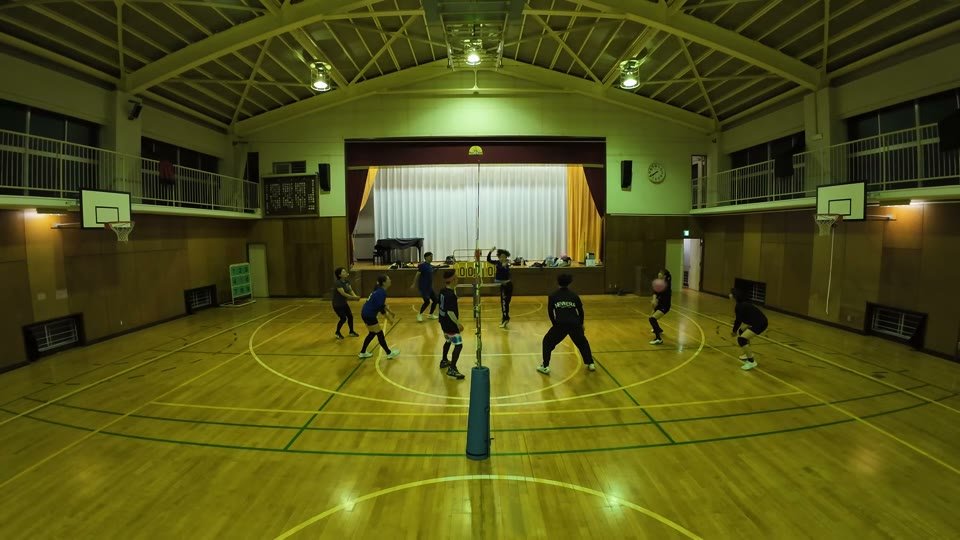
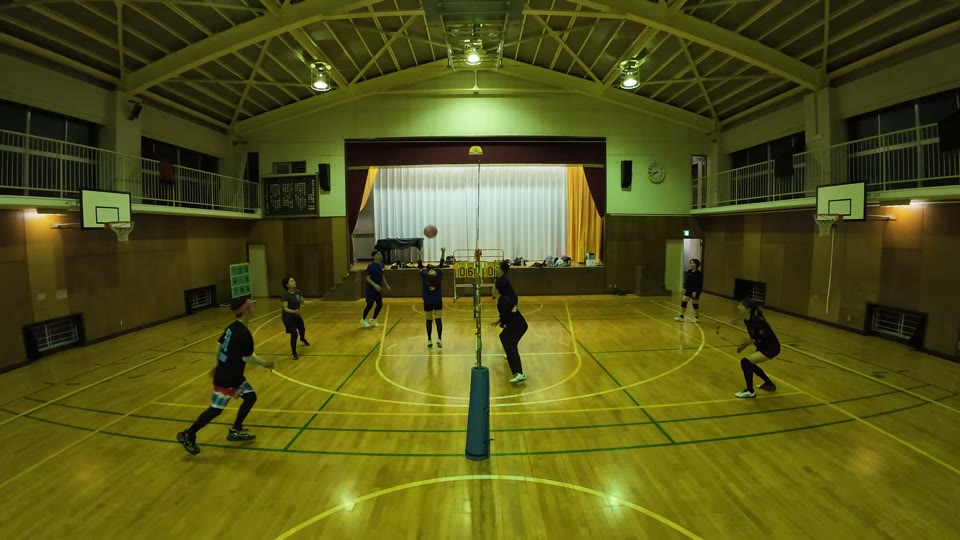
11/7講評を公開(けんのレビュー完了。賞6・珍プレー5)とリンクを戻す

Changed region(s): [[0.1875, 0.4148, 0.6562, 0.8593], [0.6562, 0.4741, 0.8125, 0.7407]]

diff --git a/kouhyou/20261107.html b/kouhyou/20261107.html
@@ -366,71 +366,142 @@
 
   <div class="card summary-card">
     <a class="award" href="#award1">
-      <div class="award-faces"><img src="faces/yukiyo.jpg" alt="ゆきよ"></div>
+      <div class="award-faces"><img src="faces/kazue.jpg" alt="かずえ"><img src="faces/yukiyo.jpg" alt="ゆきよ"></div>
       <div class="award-body">
         <div class="award-label">バックトス賞</div>
-        <div class="award-who">ゆきよ</div>
-        <div class="award-why">トスで攻撃をつなぎ、バックトスも決まった</div>
+        <div class="award-who">かずえ・ゆきよ</div>
+        <div class="award-why">かずえが3本、ゆきよが2本、バックトスを上げた。1:28 のゆきよのトスは、るきの速いアタックにつながった</div>
       </div>
       <span class="award-go"><svg viewBox="0 0 24 24" fill="none" stroke="currentColor" stroke-width="2.5"><path d="M9 5l7 7-7 7"></path></svg></span>
     </a>
     <a class="award" href="#award2">
-      <div class="award-faces"><img src="faces/komorin.jpg" alt="こもりん"></div>
+      <div class="award-faces"><img src="faces/yui.jpg" alt="ゆい"></div>
       <div class="award-body">
-        <div class="award-label">アタック&ブロック賞</div>
-        <div class="award-who">こもりん</div>
-        <div class="award-why">アタックを決めて、ブロックでも止めた</div>
+        <div class="award-label">安定トス賞</div>
+        <div class="award-who">ゆい</div>
+        <div class="award-why">トスを上げ続けた。るきの速いアタックにつなぎ、バックトスやレシーブでも活躍した</div>
       </div>
       <span class="award-go"><svg viewBox="0 0 24 24" fill="none" stroke="currentColor" stroke-width="2.5"><path d="M9 5l7 7-7 7"></path></svg></span>
     </a>
     <a class="award" href="#award3">
-      <div class="award-faces"><img src="faces/ken.jpg" alt="けん"></div>
+      <div class="award-faces"><img src="faces/yuriko.jpg" alt="ゆりこ"></div>
+      <div class="award-body">
+        <div class="award-label">つなぎの達人賞</div>
+        <div class="award-who">ゆりこ</div>
+        <div class="award-why">トス、レシーブ、バックトスと、いろいろな形でつないだ</div>
+      </div>
+      <span class="award-go"><svg viewBox="0 0 24 24" fill="none" stroke="currentColor" stroke-width="2.5"><path d="M9 5l7 7-7 7"></path></svg></span>
+    </a>
+    <a class="award" href="#award4">
+      <div class="award-faces"><img src="faces/ruki.jpg" alt="るき"></div>
+      <div class="award-body">
+        <div class="award-label">稲妻アタック賞</div>
+        <div class="award-who">るき</div>
+        <div class="award-why">速いアタックが5本。ゆい・ゆきよ・こもりんのつなぎから打った</div>
+      </div>
+      <span class="award-go"><svg viewBox="0 0 24 24" fill="none" stroke="currentColor" stroke-width="2.5"><path d="M9 5l7 7-7 7"></path></svg></span>
+    </a>
+    <a class="award" href="#award5">
+      <div class="award-faces"><img src="faces/komorin.jpg" alt="こもりん"></div>
+      <div class="award-body">
+        <div class="award-label">アタック&ブロック賞</div>
+        <div class="award-who">こもりん</div>
+        <div class="award-why">アタックとブロックの両方で活躍。レシーブから、るきのアタックにもつないだ</div>
+      </div>
+      <span class="award-go"><svg viewBox="0 0 24 24" fill="none" stroke="currentColor" stroke-width="2.5"><path d="M9 5l7 7-7 7"></path></svg></span>
+    </a>
+    <a class="award" href="#award6">
+      <div class="award-faces"><img src="faces/yassan.jpg" alt="やっさん"><img src="faces/ken.jpg" alt="けん"></div>
       <div class="award-body">
         <div class="award-label">ナイスレシーブ賞</div>
-        <div class="award-who">けん</div>
-        <div class="award-why">大きく上げたレシーブ。足でも返した</div>
+        <div class="award-who">やっさん・けん</div>
+        <div class="award-why">やっさんは最初のレシーブをゆきよのトスにつなぎ、けんは3人続けて拾い、足でも返した</div>
       </div>
       <span class="award-go"><svg viewBox="0 0 24 24" fill="none" stroke="currentColor" stroke-width="2.5"><path d="M9 5l7 7-7 7"></path></svg></span>
     </a>
   </div>
 
-  <h2 id="award1">バックトス賞 — ゆきよ</h2>
+  <h2 id="award1">バックトス賞 — かずえ・ゆきよ</h2>
   <div class="card">
-    <a class="shot" href="https://youtu.be/Cd3rK57Khro?t=46" target="_blank" rel="noopener">
-      <img src="shots1107/yukiyo-1.jpg" alt="ゆきよ のトス" loading="lazy">
+    <a class="shot" href="https://youtu.be/Cd3rK57Khro?t=237" target="_blank" rel="noopener">
+      <img src="shots1107/kazue-1.jpg" alt="かずえ のバックトス" loading="lazy">
       <span class="play"><span><svg viewBox="0 0 24 24"><path d="M8 5v14l11-7z"></path></svg></span></span>
-      <span class="cap"><span class="at">0:49</span></span>
+      <span class="cap"><span class="at">4:00</span></span>
     </a>
-    <p>ゆきよ のトス　<a href="https://youtu.be/Cd3rK57Khro?t=46" target="_blank" rel="noopener">0:49</a>、<a href="https://youtu.be/Cd3rK57Khro?t=5295" target="_blank" rel="noopener">1:28:18</a></p>
+    <p>かずえ のバックトス　<a href="https://youtu.be/Cd3rK57Khro?t=237" target="_blank" rel="noopener">4:00</a>、<a href="https://youtu.be/Cd3rK57Khro?t=2246" target="_blank" rel="noopener">37:29</a>、<a href="https://youtu.be/Cd3rK57Khro?t=3570" target="_blank" rel="noopener">59:33</a></p>
     <p>ゆきよ のバックトス　<a href="https://youtu.be/Cd3rK57Khro?t=2769" target="_blank" rel="noopener">46:12</a>、<a href="https://youtu.be/Cd3rK57Khro?t=3677" target="_blank" rel="noopener">1:01:20</a></p>
+    <p>ゆきよ のトスから、るき が速いアタック　<a href="https://youtu.be/Cd3rK57Khro?t=5295" target="_blank" rel="noopener">1:28:18</a></p>
+    <p>かずえ のレシーブ。ゆりこ・けん と3人続けて拾った　<a href="https://youtu.be/Cd3rK57Khro?t=305" target="_blank" rel="noopener">5:08</a></p>
+    <p>ゆきよ のトス。やっさん のレシーブからつないだ　<a href="https://youtu.be/Cd3rK57Khro?t=46" target="_blank" rel="noopener">0:49</a></p>
+    <p>かずえ のレシーブ。みんなでつないだラリーの最後　<a href="https://youtu.be/Cd3rK57Khro?t=5406" target="_blank" rel="noopener">1:30:09</a></p>
   </div>
 
-  <h2 id="award2">アタック&ブロック賞 — こもりん</h2>
+  <h2 id="award2">安定トス賞 — ゆい</h2>
+  <div class="card">
+    <a class="shot" href="https://youtu.be/Cd3rK57Khro?t=219" target="_blank" rel="noopener">
+      <img src="shots1107/yui-2.jpg" alt="ゆい のトスから、るき が速いアタック" loading="lazy">
+      <span class="play"><span><svg viewBox="0 0 24 24"><path d="M8 5v14l11-7z"></path></svg></span></span>
+      <span class="cap"><span class="at">3:42</span></span>
+    </a>
+    <p>ゆい のトスから、るき が速いアタック　<a href="https://youtu.be/Cd3rK57Khro?t=219" target="_blank" rel="noopener">3:42</a>、<a href="https://youtu.be/Cd3rK57Khro?t=3587" target="_blank" rel="noopener">59:50</a></p>
+    <p>ゆい のトス　<a href="https://youtu.be/Cd3rK57Khro?t=419" target="_blank" rel="noopener">7:02</a>、<a href="https://youtu.be/Cd3rK57Khro?t=2038" target="_blank" rel="noopener">34:01</a>、<a href="https://youtu.be/Cd3rK57Khro?t=3190" target="_blank" rel="noopener">53:13</a></p>
+    <p>ゆい のレシーブ。ゆりこ に続けて拾いにいった　<a href="https://youtu.be/Cd3rK57Khro?t=1569" target="_blank" rel="noopener">26:12</a></p>
+    <p>ゆい のバックトス　<a href="https://youtu.be/Cd3rK57Khro?t=2292" target="_blank" rel="noopener">38:15</a></p>
+    <p>ゆい のレシーブ　<a href="https://youtu.be/Cd3rK57Khro?t=3216" target="_blank" rel="noopener">53:39</a>、<a href="https://youtu.be/Cd3rK57Khro?t=3830" target="_blank" rel="noopener">1:03:53</a></p>
+  </div>
+
+  <h2 id="award3">つなぎの達人賞 — ゆりこ</h2>
+  <div class="card">
+    <a class="shot" href="https://youtu.be/Cd3rK57Khro?t=310" target="_blank" rel="noopener">
+      <img src="shots1107/yuriko-3.jpg" alt="ゆりこ のレシーブ。かずえ・けん と3人続けて拾った" loading="lazy">
+      <span class="play"><span><svg viewBox="0 0 24 24"><path d="M8 5v14l11-7z"></path></svg></span></span>
+      <span class="cap"><span class="at">5:13</span></span>
+    </a>
+    <p>ゆりこ のトス　<a href="https://youtu.be/Cd3rK57Khro?t=109" target="_blank" rel="noopener">1:52</a>、<a href="https://youtu.be/Cd3rK57Khro?t=4554" target="_blank" rel="noopener">1:15:57</a></p>
+    <p>ゆりこ のレシーブ。かずえ・けん と3人続けて拾った　<a href="https://youtu.be/Cd3rK57Khro?t=310" target="_blank" rel="noopener">5:13</a></p>
+    <p>ゆりこ のレシーブ。ゆい と続けて拾いにいった。間に合わなかったけれど好プレー　<a href="https://youtu.be/Cd3rK57Khro?t=1565" target="_blank" rel="noopener">26:08</a></p>
+    <p>ゆりこ のバックトス　<a href="https://youtu.be/Cd3rK57Khro?t=2890" target="_blank" rel="noopener">48:13</a></p>
+  </div>
+
+  <h2 id="award4">稲妻アタック賞 — るき</h2>
+  <div class="card">
+    <a class="shot" href="https://youtu.be/Cd3rK57Khro?t=220" target="_blank" rel="noopener">
+      <img src="shots1107/ruki-4.jpg" alt="るき のアタック。ゆい のトスから" loading="lazy">
+      <span class="play"><span><svg viewBox="0 0 24 24"><path d="M8 5v14l11-7z"></path></svg></span></span>
+      <span class="cap"><span class="at">3:43</span></span>
+    </a>
+    <p>るき のアタック。ゆい のトスから　<a href="https://youtu.be/Cd3rK57Khro?t=220" target="_blank" rel="noopener">3:43</a>、<a href="https://youtu.be/Cd3rK57Khro?t=3588" target="_blank" rel="noopener">59:51</a></p>
+    <p>るき のアタック　<a href="https://youtu.be/Cd3rK57Khro?t=4684" target="_blank" rel="noopener">1:18:07</a>、<a href="https://youtu.be/Cd3rK57Khro?t=5205" target="_blank" rel="noopener">1:26:48</a></p>
+    <p>るき のアタック。こもりん のレシーブからつないだ　<a href="https://youtu.be/Cd3rK57Khro?t=4914" target="_blank" rel="noopener">1:21:57</a></p>
+    <p>るき のアタック。ゆきよ のトスから　<a href="https://youtu.be/Cd3rK57Khro?t=5296" target="_blank" rel="noopener">1:28:19</a></p>
+  </div>
+
+  <h2 id="award5">アタック&ブロック賞 — こもりん</h2>
   <div class="card">
     <a class="shot" href="https://youtu.be/Cd3rK57Khro?t=378" target="_blank" rel="noopener">
-      <img src="shots1107/komorin-2.jpg" alt="こもりん のアタック" loading="lazy">
+      <img src="shots1107/komorin-5.jpg" alt="こもりん のアタック" loading="lazy">
       <span class="play"><span><svg viewBox="0 0 24 24"><path d="M8 5v14l11-7z"></path></svg></span></span>
       <span class="cap"><span class="at">6:21</span></span>
     </a>
     <p>こもりん のアタック　<a href="https://youtu.be/Cd3rK57Khro?t=378" target="_blank" rel="noopener">6:21</a></p>
     <p>こもりん のブロック　<a href="https://youtu.be/Cd3rK57Khro?t=1739" target="_blank" rel="noopener">29:02</a></p>
-    <p>こもりん のレシーブ　<a href="https://youtu.be/Cd3rK57Khro?t=4904" target="_blank" rel="noopener">1:21:47</a></p>
+    <p>こもりん のレシーブ。そのボールを るき がアタック　<a href="https://youtu.be/Cd3rK57Khro?t=4904" target="_blank" rel="noopener">1:21:47</a></p>
   </div>
 
-  <h2 id="award3">ナイスレシーブ賞 — けん</h2>
+  <h2 id="award6">ナイスレシーブ賞 — やっさん・けん</h2>
   <div class="card">
     <a class="shot" href="https://youtu.be/Cd3rK57Khro?t=311" target="_blank" rel="noopener">
-      <img src="shots1107/ken-3.jpg" alt="けん のレシーブ" loading="lazy">
+      <img src="shots1107/yassan-6.jpg" alt="けん のレシーブ。かずえ・ゆりこ に続けて3人で拾った" loading="lazy">
       <span class="play"><span><svg viewBox="0 0 24 24"><path d="M8 5v14l11-7z"></path></svg></span></span>
       <span class="cap"><span class="at">5:14</span></span>
     </a>
-    <p>けん のレシーブ　<a href="https://youtu.be/Cd3rK57Khro?t=311" target="_blank" rel="noopener">5:14</a></p>
+    <p>やっさん のレシーブ。ゆきよ のトスにつないだ　<a href="https://youtu.be/Cd3rK57Khro?t=43" target="_blank" rel="noopener">0:46</a></p>
+    <p>けん のレシーブ。かずえ・ゆりこ に続けて3人で拾った　<a href="https://youtu.be/Cd3rK57Khro?t=311" target="_blank" rel="noopener">5:14</a></p>
+    <p>けん、足でレシーブ。ボールはちゃんと返りました　<a href="https://youtu.be/Cd3rK57Khro?t=2998" target="_blank" rel="noopener">50:01</a></p>
   </div>
 
   <h2>珍プレー</h2>
-  <div class="card"><p><strong>ゆい</strong>　やっさんのフェイントを２人で何とか返しましたがやっさんにあたっくで仕留められました。　<a href="https://youtu.be/Cd3rK57Khro?t=989" target="_blank" rel="noopener">16:32</a></p><p><strong>けん</strong>　けんの緩いサーブがるきを翻弄しました。　<a href="https://youtu.be/Cd3rK57Khro?t=1117" target="_blank" rel="noopener">18:40</a></p><p><strong>ゆりこ</strong>　レシーブしたボールをどこにあげるかについて、やっさんからゆりこに指導がはいりました。　<a href="https://youtu.be/Cd3rK57Khro?t=2493" target="_blank" rel="noopener">41:36</a></p><p><strong>けん</strong>　けんが足でなんとか返しました　<a href="https://youtu.be/Cd3rK57Khro?t=2998" target="_blank" rel="noopener">50:01</a></p><p><strong>ゆきよ</strong>　るきのアタックがゆきよの顔面を直撃！　<a href="https://youtu.be/Cd3rK57Khro?t=3705" target="_blank" rel="noopener">1:01:48</a></p><p><strong>ゆい</strong>　ゆい　の　顔面に　こもりん　のアタックが決まりました。今日はこんなシーンが多い一日でした。　<a href="https://youtu.be/Cd3rK57Khro?t=4612" target="_blank" rel="noopener">1:16:55</a></p></div>
-  <h2>この日のファインプレー</h2>
-  <div class="card"><p><strong>やっさん</strong>　<a href="https://youtu.be/Cd3rK57Khro?t=43" target="_blank" rel="noopener">0:46</a> レシーブ</p><p><strong>ゆりこ</strong>　<a href="https://youtu.be/Cd3rK57Khro?t=109" target="_blank" rel="noopener">1:52</a> トス、<a href="https://youtu.be/Cd3rK57Khro?t=310" target="_blank" rel="noopener">5:13</a> レシーブ、<a href="https://youtu.be/Cd3rK57Khro?t=1565" target="_blank" rel="noopener">26:08</a> レシーブ、<a href="https://youtu.be/Cd3rK57Khro?t=2890" target="_blank" rel="noopener">48:13</a> バックトス、<a href="https://youtu.be/Cd3rK57Khro?t=4554" target="_blank" rel="noopener">1:15:57</a> トス</p><p><strong>ゆい</strong>　<a href="https://youtu.be/Cd3rK57Khro?t=219" target="_blank" rel="noopener">3:42</a> トス、<a href="https://youtu.be/Cd3rK57Khro?t=419" target="_blank" rel="noopener">7:02</a> トス、<a href="https://youtu.be/Cd3rK57Khro?t=1569" target="_blank" rel="noopener">26:12</a> レシーブ、<a href="https://youtu.be/Cd3rK57Khro?t=2038" target="_blank" rel="noopener">34:01</a> トス、<a href="https://youtu.be/Cd3rK57Khro?t=2292" target="_blank" rel="noopener">38:15</a> バックトス、<a href="https://youtu.be/Cd3rK57Khro?t=3190" target="_blank" rel="noopener">53:13</a> トス、<a href="https://youtu.be/Cd3rK57Khro?t=3216" target="_blank" rel="noopener">53:39</a> レシーブ、<a href="https://youtu.be/Cd3rK57Khro?t=3587" target="_blank" rel="noopener">59:50</a> トス、<a href="https://youtu.be/Cd3rK57Khro?t=3830" target="_blank" rel="noopener">1:03:53</a> レシーブ</p><p><strong>るき</strong>　<a href="https://youtu.be/Cd3rK57Khro?t=220" target="_blank" rel="noopener">3:43</a> アタック、<a href="https://youtu.be/Cd3rK57Khro?t=3588" target="_blank" rel="noopener">59:51</a> アタック、<a href="https://youtu.be/Cd3rK57Khro?t=4684" target="_blank" rel="noopener">1:18:07</a> アタック、<a href="https://youtu.be/Cd3rK57Khro?t=4914" target="_blank" rel="noopener">1:21:57</a> アタック、<a href="https://youtu.be/Cd3rK57Khro?t=5121" target="_blank" rel="noopener">1:25:24</a> オーバーネット、<a href="https://youtu.be/Cd3rK57Khro?t=5205" target="_blank" rel="noopener">1:26:48</a> アタック、<a href="https://youtu.be/Cd3rK57Khro?t=5296" target="_blank" rel="noopener">1:28:19</a> アタック</p><p><strong>かずえ</strong>　<a href="https://youtu.be/Cd3rK57Khro?t=237" target="_blank" rel="noopener">4:00</a> バックトス、<a href="https://youtu.be/Cd3rK57Khro?t=305" target="_blank" rel="noopener">5:08</a> レシーブ、<a href="https://youtu.be/Cd3rK57Khro?t=2246" target="_blank" rel="noopener">37:29</a> バックトス、<a href="https://youtu.be/Cd3rK57Khro?t=3570" target="_blank" rel="noopener">59:33</a> バックトス、<a href="https://youtu.be/Cd3rK57Khro?t=5406" target="_blank" rel="noopener">1:30:09</a> レシーブ</p></div>
+  <div class="card"><p><strong>ゆい・かずえ</strong>　やっさんのフェイントを、ゆいとかずえの2人で拾いました。でも、次のやっさんのアタックで仕留められました。　<a href="https://youtu.be/Cd3rK57Khro?t=989" target="_blank" rel="noopener">16:32</a></p><p><strong>けん・るき</strong>　けんのゆるいサーブに、るきがすっかり翻弄されました。　<a href="https://youtu.be/Cd3rK57Khro?t=1117" target="_blank" rel="noopener">18:40</a></p><p><strong>ゆりこ</strong>　レシーブしたボールの上げどころについて、やっさんからゆりこにアドバイス。作戦会議のひとこま。　<a href="https://youtu.be/Cd3rK57Khro?t=2493" target="_blank" rel="noopener">41:36</a></p><p><strong>ゆきよ</strong>　るきのアタックが、ゆきよにドンピシャで当たってしまいました。　<a href="https://youtu.be/Cd3rK57Khro?t=3705" target="_blank" rel="noopener">1:01:48</a></p><p><strong>ゆい</strong>　こもりんのアタックが、ゆいに当たってしまいました。今日はこんな場面が多い一日でした。　<a href="https://youtu.be/Cd3rK57Khro?t=4612" target="_blank" rel="noopener">1:16:55</a></p></div>
   <h2>みんなでつないだラリー</h2>
   <div class="card">
     <table class="toss-table">
@@ -441,18 +512,6 @@
     </table>
   </div>
 
-  <h2>この日のひとこま</h2>
-  <div class="card">
-    <table class="toss-table">
-      <thead><tr><th>人</th><th>プレー</th><th>時刻</th></tr></thead>
-      <tbody>
-        <tr><td><strong>ゆりこ</strong></td><td>レシーブしたボールをどこにあげるかについて、やっさんからゆりこに指導がはいりました。</td><td><a href="https://youtu.be/Cd3rK57Khro?t=2493" target="_blank" rel="noopener">41:36</a></td></tr>
-        <tr><td><strong>けん</strong></td><td>けんが足でなんとか返しました</td><td><a href="https://youtu.be/Cd3rK57Khro?t=2998" target="_blank" rel="noopener">50:01</a></td></tr>
-        <tr><td><strong>ゆきよ</strong></td><td>るきのアタックがゆきよの顔面を直撃！</td><td><a href="https://youtu.be/Cd3rK57Khro?t=3705" target="_blank" rel="noopener">1:01:48</a></td></tr>
-        <tr><td><strong>ゆい</strong></td><td>ゆい　の　顔面に　こもりん　のアタックが決まりました。今日はこんなシーンが多い一日でした。</td><td><a href="https://youtu.be/Cd3rK57Khro?t=4612" target="_blank" rel="noopener">1:16:55</a></td></tr>
-      </tbody>
-    </table>
-  </div>
 
 
   <p class="note" style="margin-top:28px">Produced by けんぴー(AI)</p>

diff --git a/index.html b/index.html
@@ -485,7 +485,7 @@
   const practicePlaylist = "https://www.youtube.com/playlist?list=PLUTpvcTnAowdnav0_-O7P8cx_rl_SJqYq";
 
   const practiceDays = [
-    { date: "2026/11/07", label: "練習", addedAt: "2026-11-09",
+    { date: "2026/11/07", label: "練習", review: "kouhyou/20261107.html", addedAt: "2026-11-09",
       videos: [
         { name: "ステージ側", id: "Cd3rK57Khro" }
       ] },
